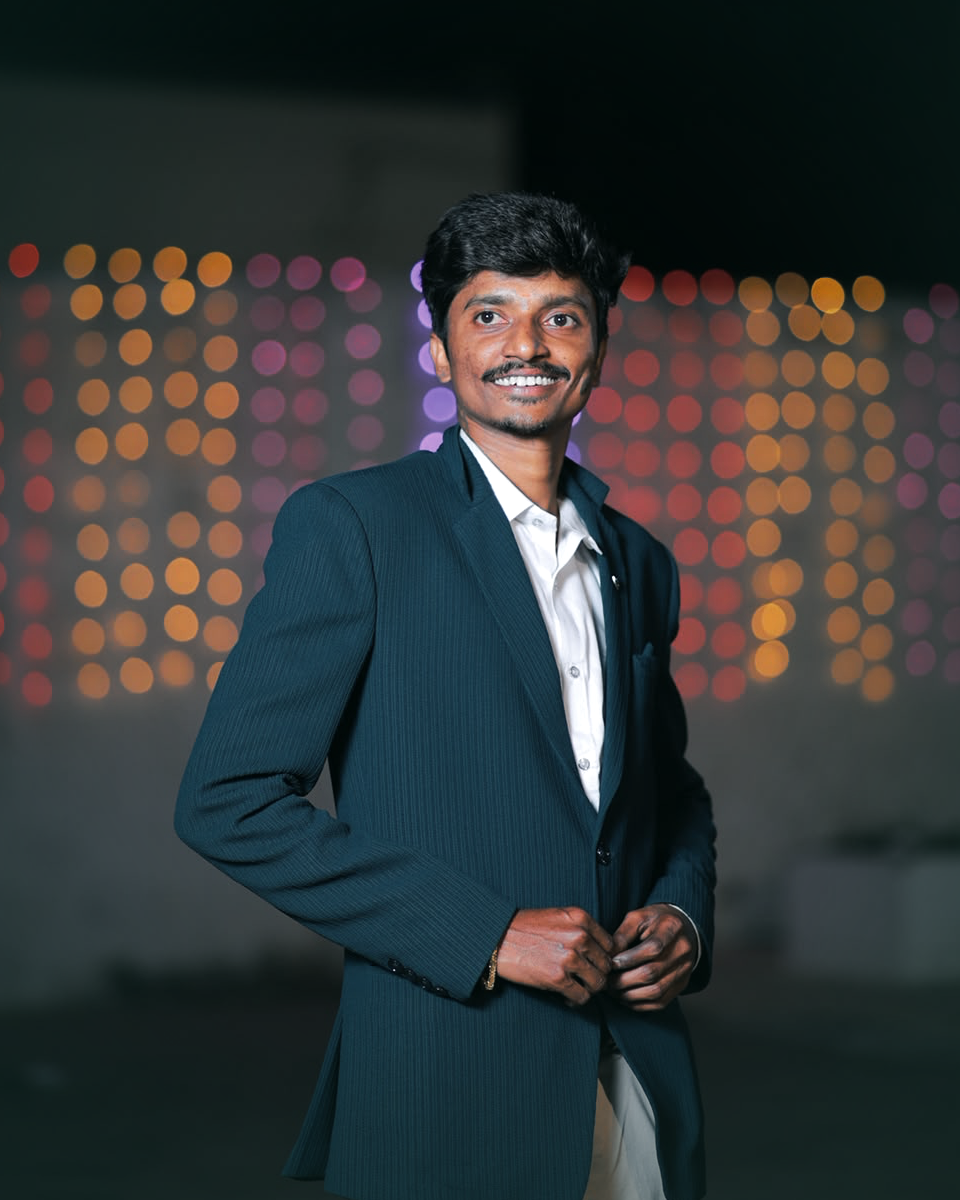
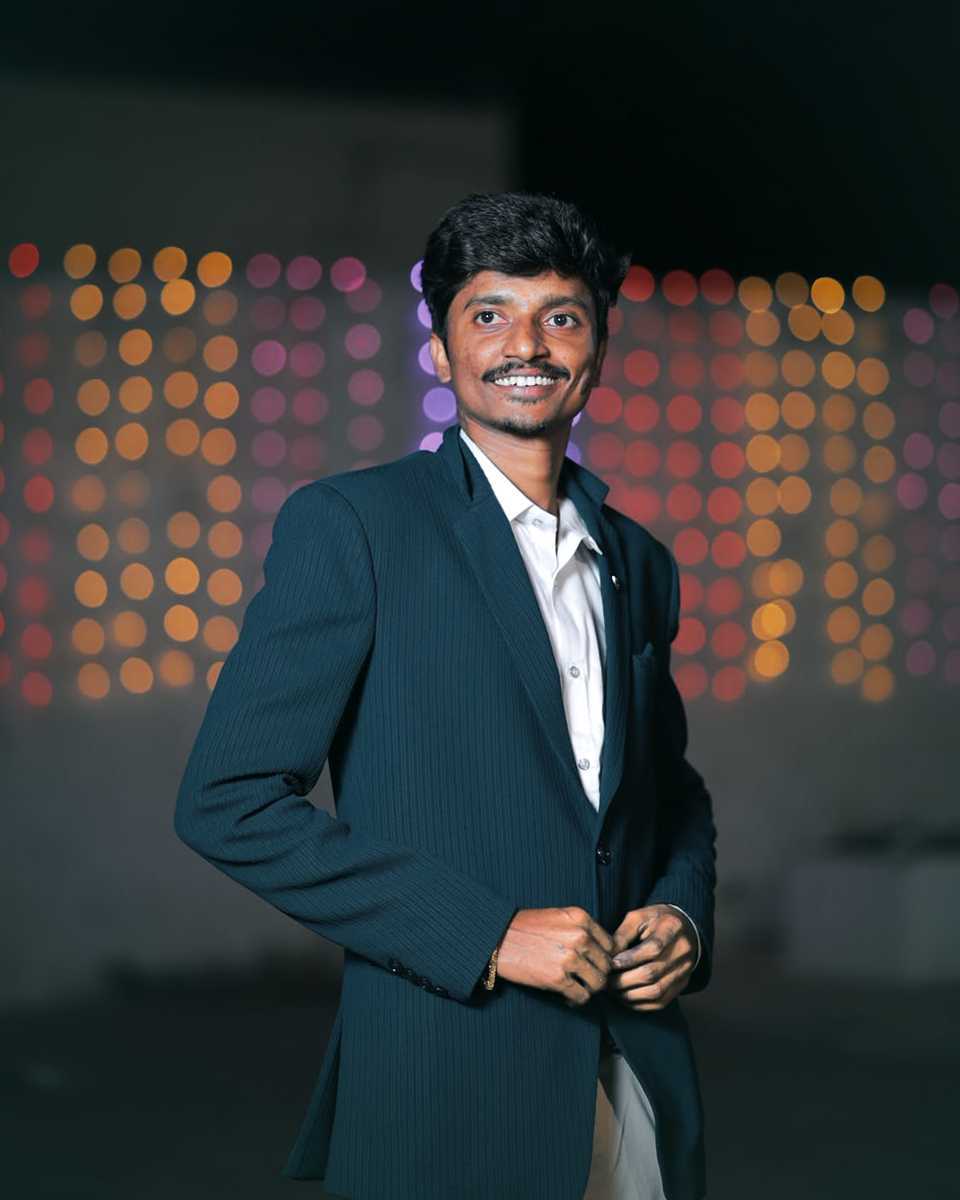
Refine hero photo and What-I-Do stacked cards
- Lift the hero portrait's underexposed hands to a natural skin tone
- Slow the stacked-card scroll to advance one card at a time (dwell easing)
- Add capped progress rail + numeric index (desktop) and a segment bar (mobile)

Changed region(s): [[0.5312, 0.74, 0.7188, 0.8633]]

diff --git a/site/src/components.css b/site/src/components.css
@@ -241,48 +241,103 @@
 
 .stack-viewport { position: relative; margin-top: clamp(20px, 4vh, 40px); }
 
-/* Left progress rail */
+/* Left progress rail: capped track + fill + step dots */
 .stack-rail {
   position: absolute;
-  left: -8px;
+  left: clamp(0px, 2vw, 20px);
   top: 50%;
   transform: translateY(-50%);
+  height: min(52vh, 300px);
   display: flex;
-  flex-direction: column;
-  gap: 16px;
-  padding: 14px 0;
+  align-items: center;
   z-index: 10;
 }
-.stack-rail::before {
-  content: '';
+.rail-track {
   position: absolute;
-  left: 50%;
+  left: 4px;
   top: 0;
   bottom: 0;
-  width: 1px;
+  width: 2px;
+  border-radius: 2px; /* rounded caps = visible beginning + end */
   background: var(--dark-border);
-  transform: translateX(-50%);
+  overflow: hidden;
+}
+.rail-fill {
+  position: absolute;
+  top: 0;
+  left: 0;
+  width: 100%;
+  background: var(--teal-light);
+  border-radius: 2px;
+}
+.rail-dots {
+  position: relative;
+  height: 100%;
+  display: flex;
+  flex-direction: column;
+  justify-content: space-between;
 }
 .stack-dot {
-  position: relative;
-  width: 9px;
-  height: 9px;
+  width: 10px;
+  height: 10px;
   border-radius: 50%;
   background: var(--dark-border-2);
   transition: background 0.3s, transform 0.3s, box-shadow 0.3s;
 }
-.stack-dot.is-done { background: var(--teal-light); opacity: 0.55; }
+.stack-dot.is-done { background: var(--teal-light); opacity: 0.5; }
 .stack-dot.is-active {
   background: var(--teal-light);
   transform: scale(1.5);
   box-shadow: 0 0 0 4px rgba(127, 194, 181, 0.16);
 }
 
+/* Right numeric index */
+.stack-nums {
+  position: absolute;
+  right: clamp(0px, 2vw, 20px);
+  top: 50%;
+  transform: translateY(-50%);
+  height: min(52vh, 300px);
+  display: flex;
+  flex-direction: column;
+  justify-content: space-between;
+  align-items: flex-end;
+  z-index: 10;
+  font-family: var(--font-display);
+  font-weight: 600;
+  letter-spacing: 0.1em;
+}
+.stack-num {
+  font-size: 15px;
+  color: var(--dark-faint);
+  opacity: 0.45;
+  transition: color 0.3s, opacity 0.3s, transform 0.3s;
+}
+.stack-num.is-done { color: var(--teal-light); opacity: 0.5; }
+.stack-num.is-active {
+  color: var(--teal-light);
+  opacity: 1;
+  transform: scale(1.35);
+  transform-origin: right center;
+}
+
+/* Mobile segmented indicator (shown when side rails are hidden) */
+.stack-mobile-bar { display: none; }
+.mbar-seg {
+  height: 4px;
+  width: 30px;
+  border-radius: 999px;
+  background: var(--dark-border-2);
+  transition: background 0.3s, opacity 0.3s;
+}
+.mbar-seg.is-done { background: var(--teal-light); opacity: 0.5; }
+.mbar-seg.is-active { background: var(--teal-light); }
+
 /* The stacked deck */
 .stack-cards {
   position: relative;
   height: clamp(390px, 54vh, 470px);
-  margin-left: clamp(24px, 5vw, 56px);
+  margin: 0 clamp(40px, 8vw, 84px);
 }
 .stack-card {
   position: absolute;
@@ -360,9 +415,16 @@
   transform: none;
 }
 
-@media (max-width: 620px) {
-  .stack-rail { display: none; }
-  .stack-cards { margin-left: 0; }
+@media (max-width: 720px) {
+  .stack-rail,
+  .stack-nums { display: none; }
+  .stack-cards { margin: 0; }
+  .stack-mobile-bar {
+    display: flex;
+    justify-content: center;
+    gap: 8px;
+    margin-top: 84px; /* clear the stacked cards' bottom peek */
+  }
 }
 .service-icon {
   width: 46px;

diff --git a/site/src/components/Services.jsx b/site/src/components/Services.jsx
@@ -49,7 +49,7 @@ function ServiceCardBody({ svc, i }) {
 
 export default function Services() {
   const sectionRef = useRef(null)
-  const [progress, setProgress] = useState(0) // 0 .. N-1
+  const [progress, setProgress] = useState(0) // raw 0 .. N-1
   const [reduce, setReduce] = useState(false)
 
   useEffect(() => {
@@ -110,34 +110,75 @@ export default function Services() {
     )
   }
 
-  const activeIndex = Math.round(progress)
+  // Dwell easing: hold each card, then transition — so cards advance one at a time.
+  const seg = Math.min(Math.floor(progress), N - 1)
+  const frac = progress - seg
+  const HOLD = 0.45
+  let t = frac <= HOLD ? 0 : (frac - HOLD) / (1 - HOLD)
+  t = t * t * (3 - 2 * t) // smoothstep
+  const effProgress = seg + t
+  const prog01 = N > 1 ? effProgress / (N - 1) : 0
+  const activeIndex = Math.round(effProgress)
 
   return (
     <section
       id="services"
       className="services-stack"
       ref={sectionRef}
-      style={{ height: `calc(${N} * 78vh)` }}
+      style={{ height: `calc(${N} * 112vh)` }}
     >
       <div className="services-sticky">
         <div className="wrap">
           {head}
           <div className="stack-viewport">
+            {/* Left rail: line with start/end caps + progress fill + step dots */}
             <div className="stack-rail" aria-hidden="true">
+              <div className="rail-track">
+                <div className="rail-fill" style={{ height: `${prog01 * 100}%` }} />
+              </div>
+              <div className="rail-dots">
+                {services.map((_, i) => (
+                  <span
+                    key={i}
+                    className={`stack-dot${i === activeIndex ? ' is-active' : ''}${
+                      i < activeIndex ? ' is-done' : ''
+                    }`}
+                  />
+                ))}
+              </div>
+            </div>
+
+            <div className="stack-cards">
+              {services.map((svc, i) => (
+                <article key={svc.title} className="stack-card" style={cardStyle(i - effProgress)}>
+                  <ServiceCardBody svc={svc} i={i} />
+                </article>
+              ))}
+            </div>
+
+            {/* Right numeric index */}
+            <div className="stack-nums" aria-hidden="true">
               {services.map((_, i) => (
                 <span
                   key={i}
-                  className={`stack-dot${i === activeIndex ? ' is-active' : ''}${
+                  className={`stack-num${i === activeIndex ? ' is-active' : ''}${
+                    i < activeIndex ? ' is-done' : ''
+                  }`}
+                >
+                  {pad2(i + 1)}
+                </span>
+              ))}
+            </div>
+
+            {/* Mobile segmented indicator */}
+            <div className="stack-mobile-bar" aria-hidden="true">
+              {services.map((_, i) => (
+                <span
+                  key={i}
+                  className={`mbar-seg${i === activeIndex ? ' is-active' : ''}${
                     i < activeIndex ? ' is-done' : ''
                   }`}
                 />
-              ))}
-            </div>
-            <div className="stack-cards">
-              {services.map((svc, i) => (
-                <article key={svc.title} className="stack-card" style={cardStyle(i - progress)}>
-                  <ServiceCardBody svc={svc} i={i} />
-                </article>
               ))}
             </div>
           </div>